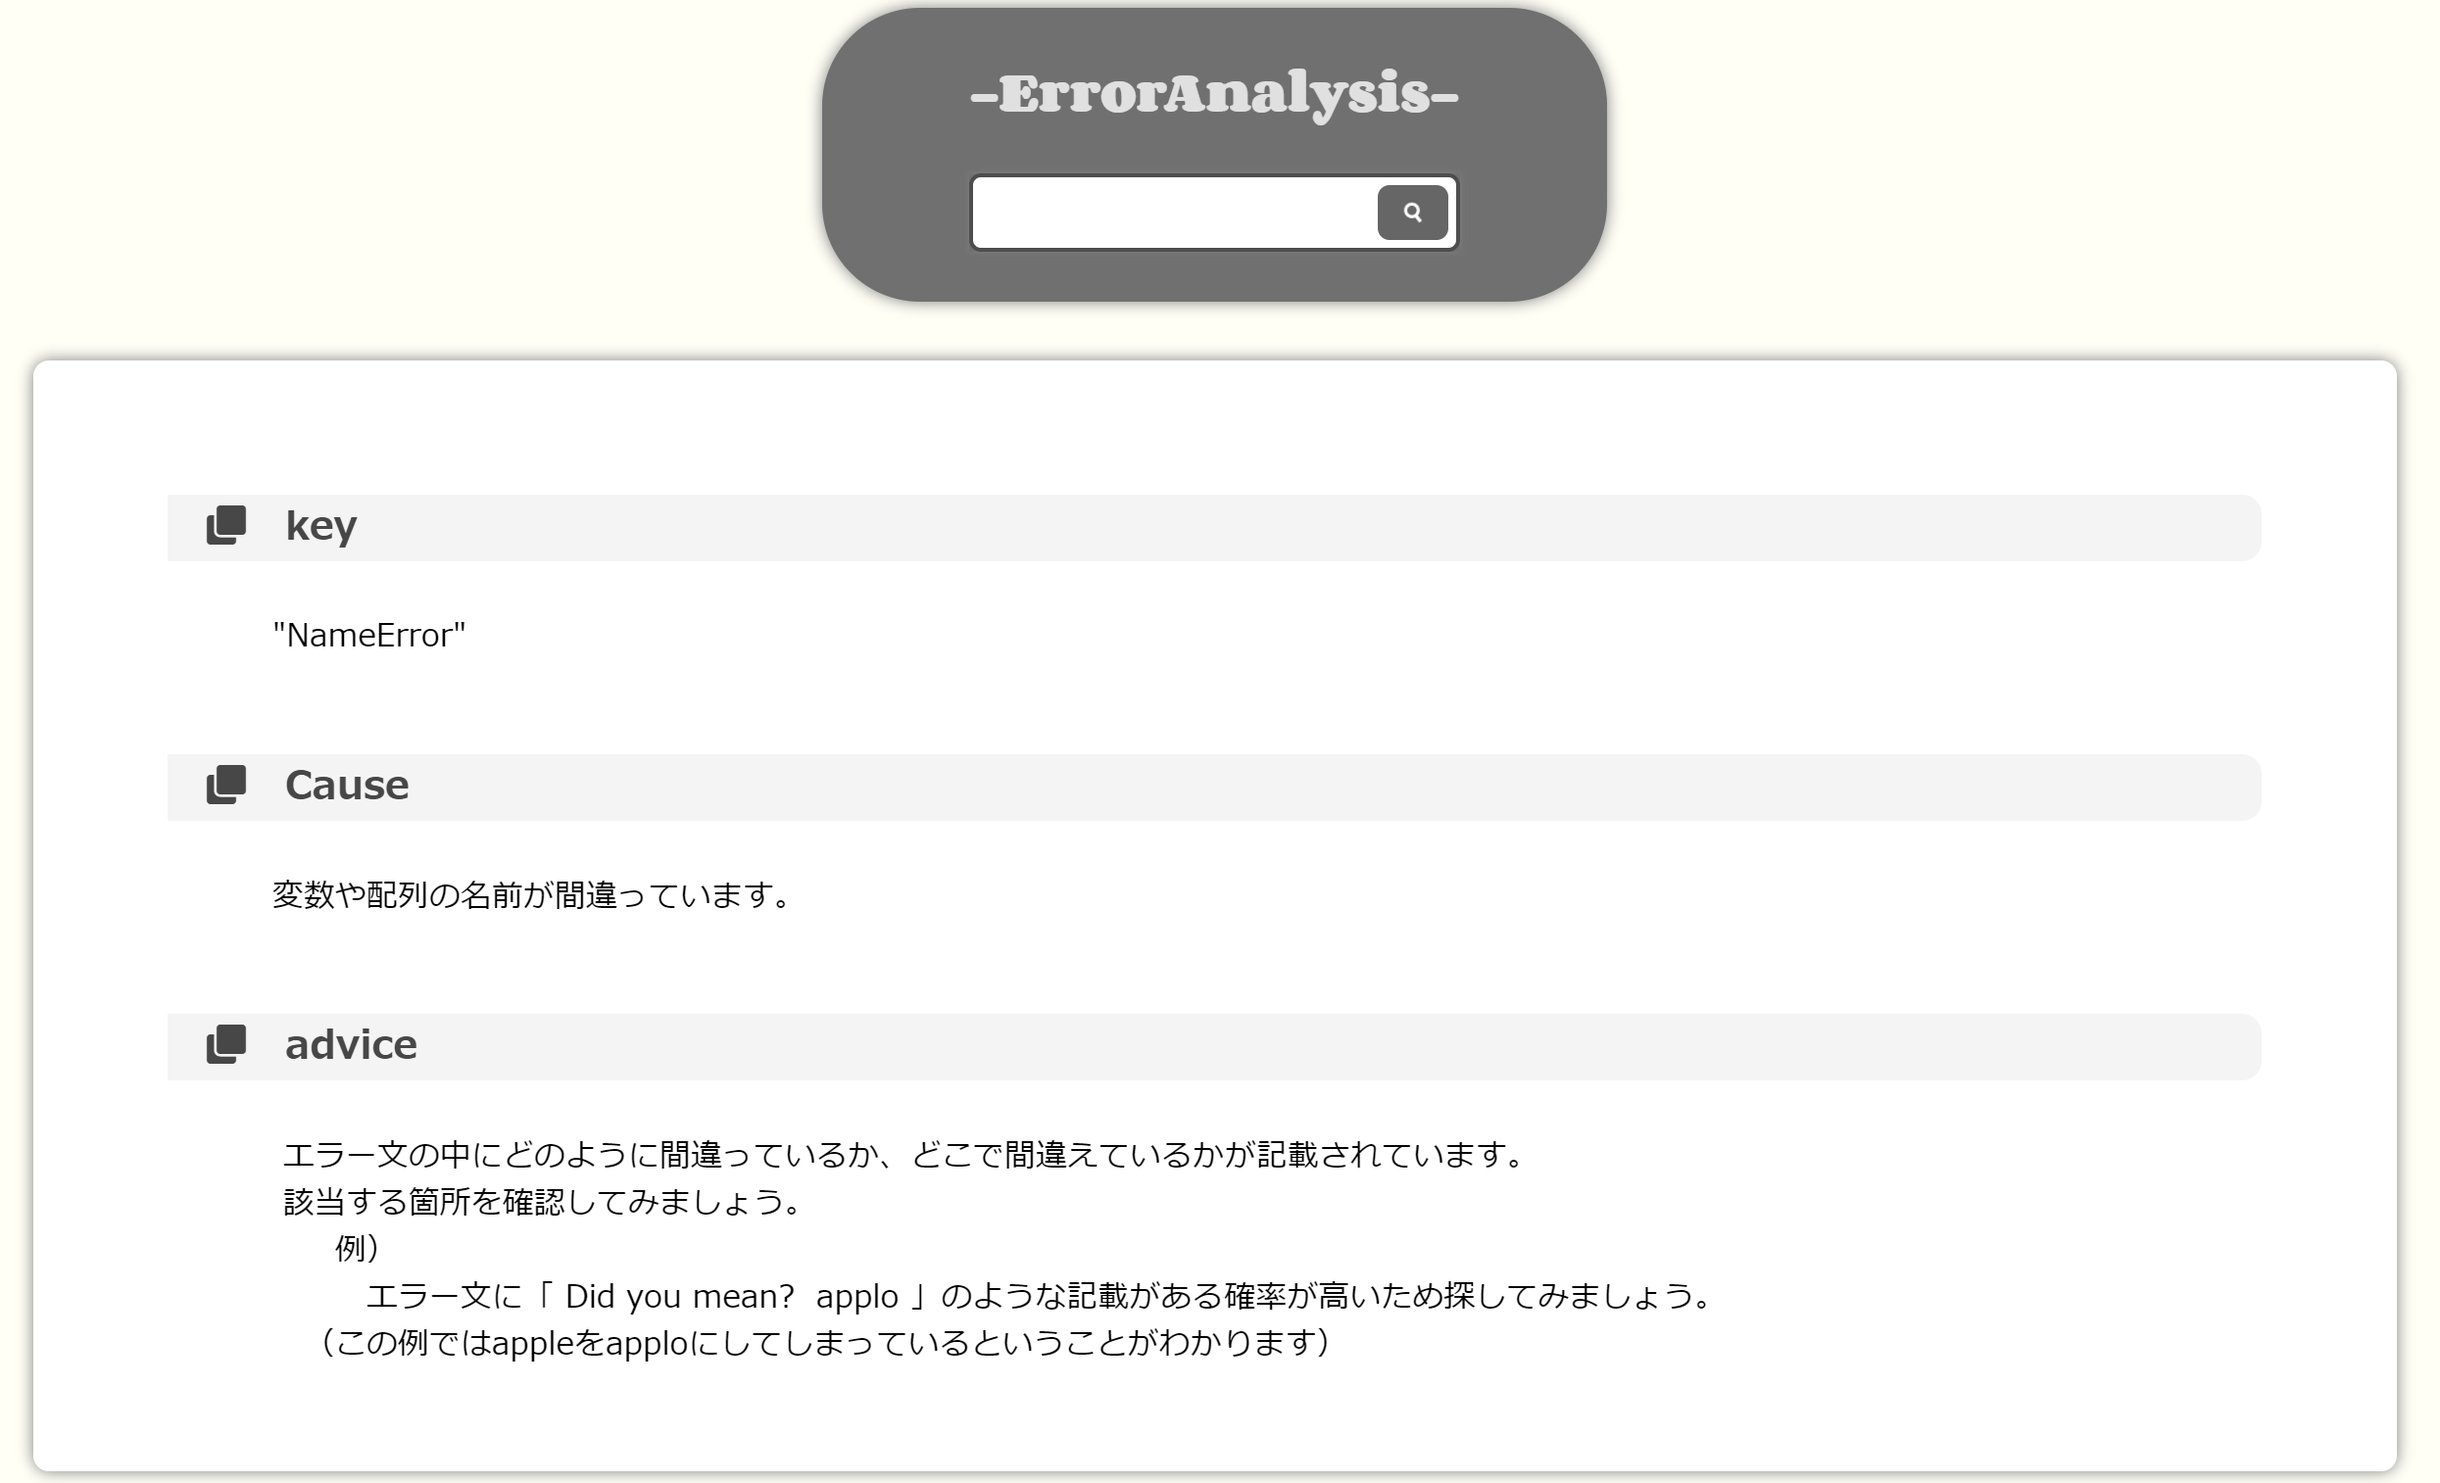
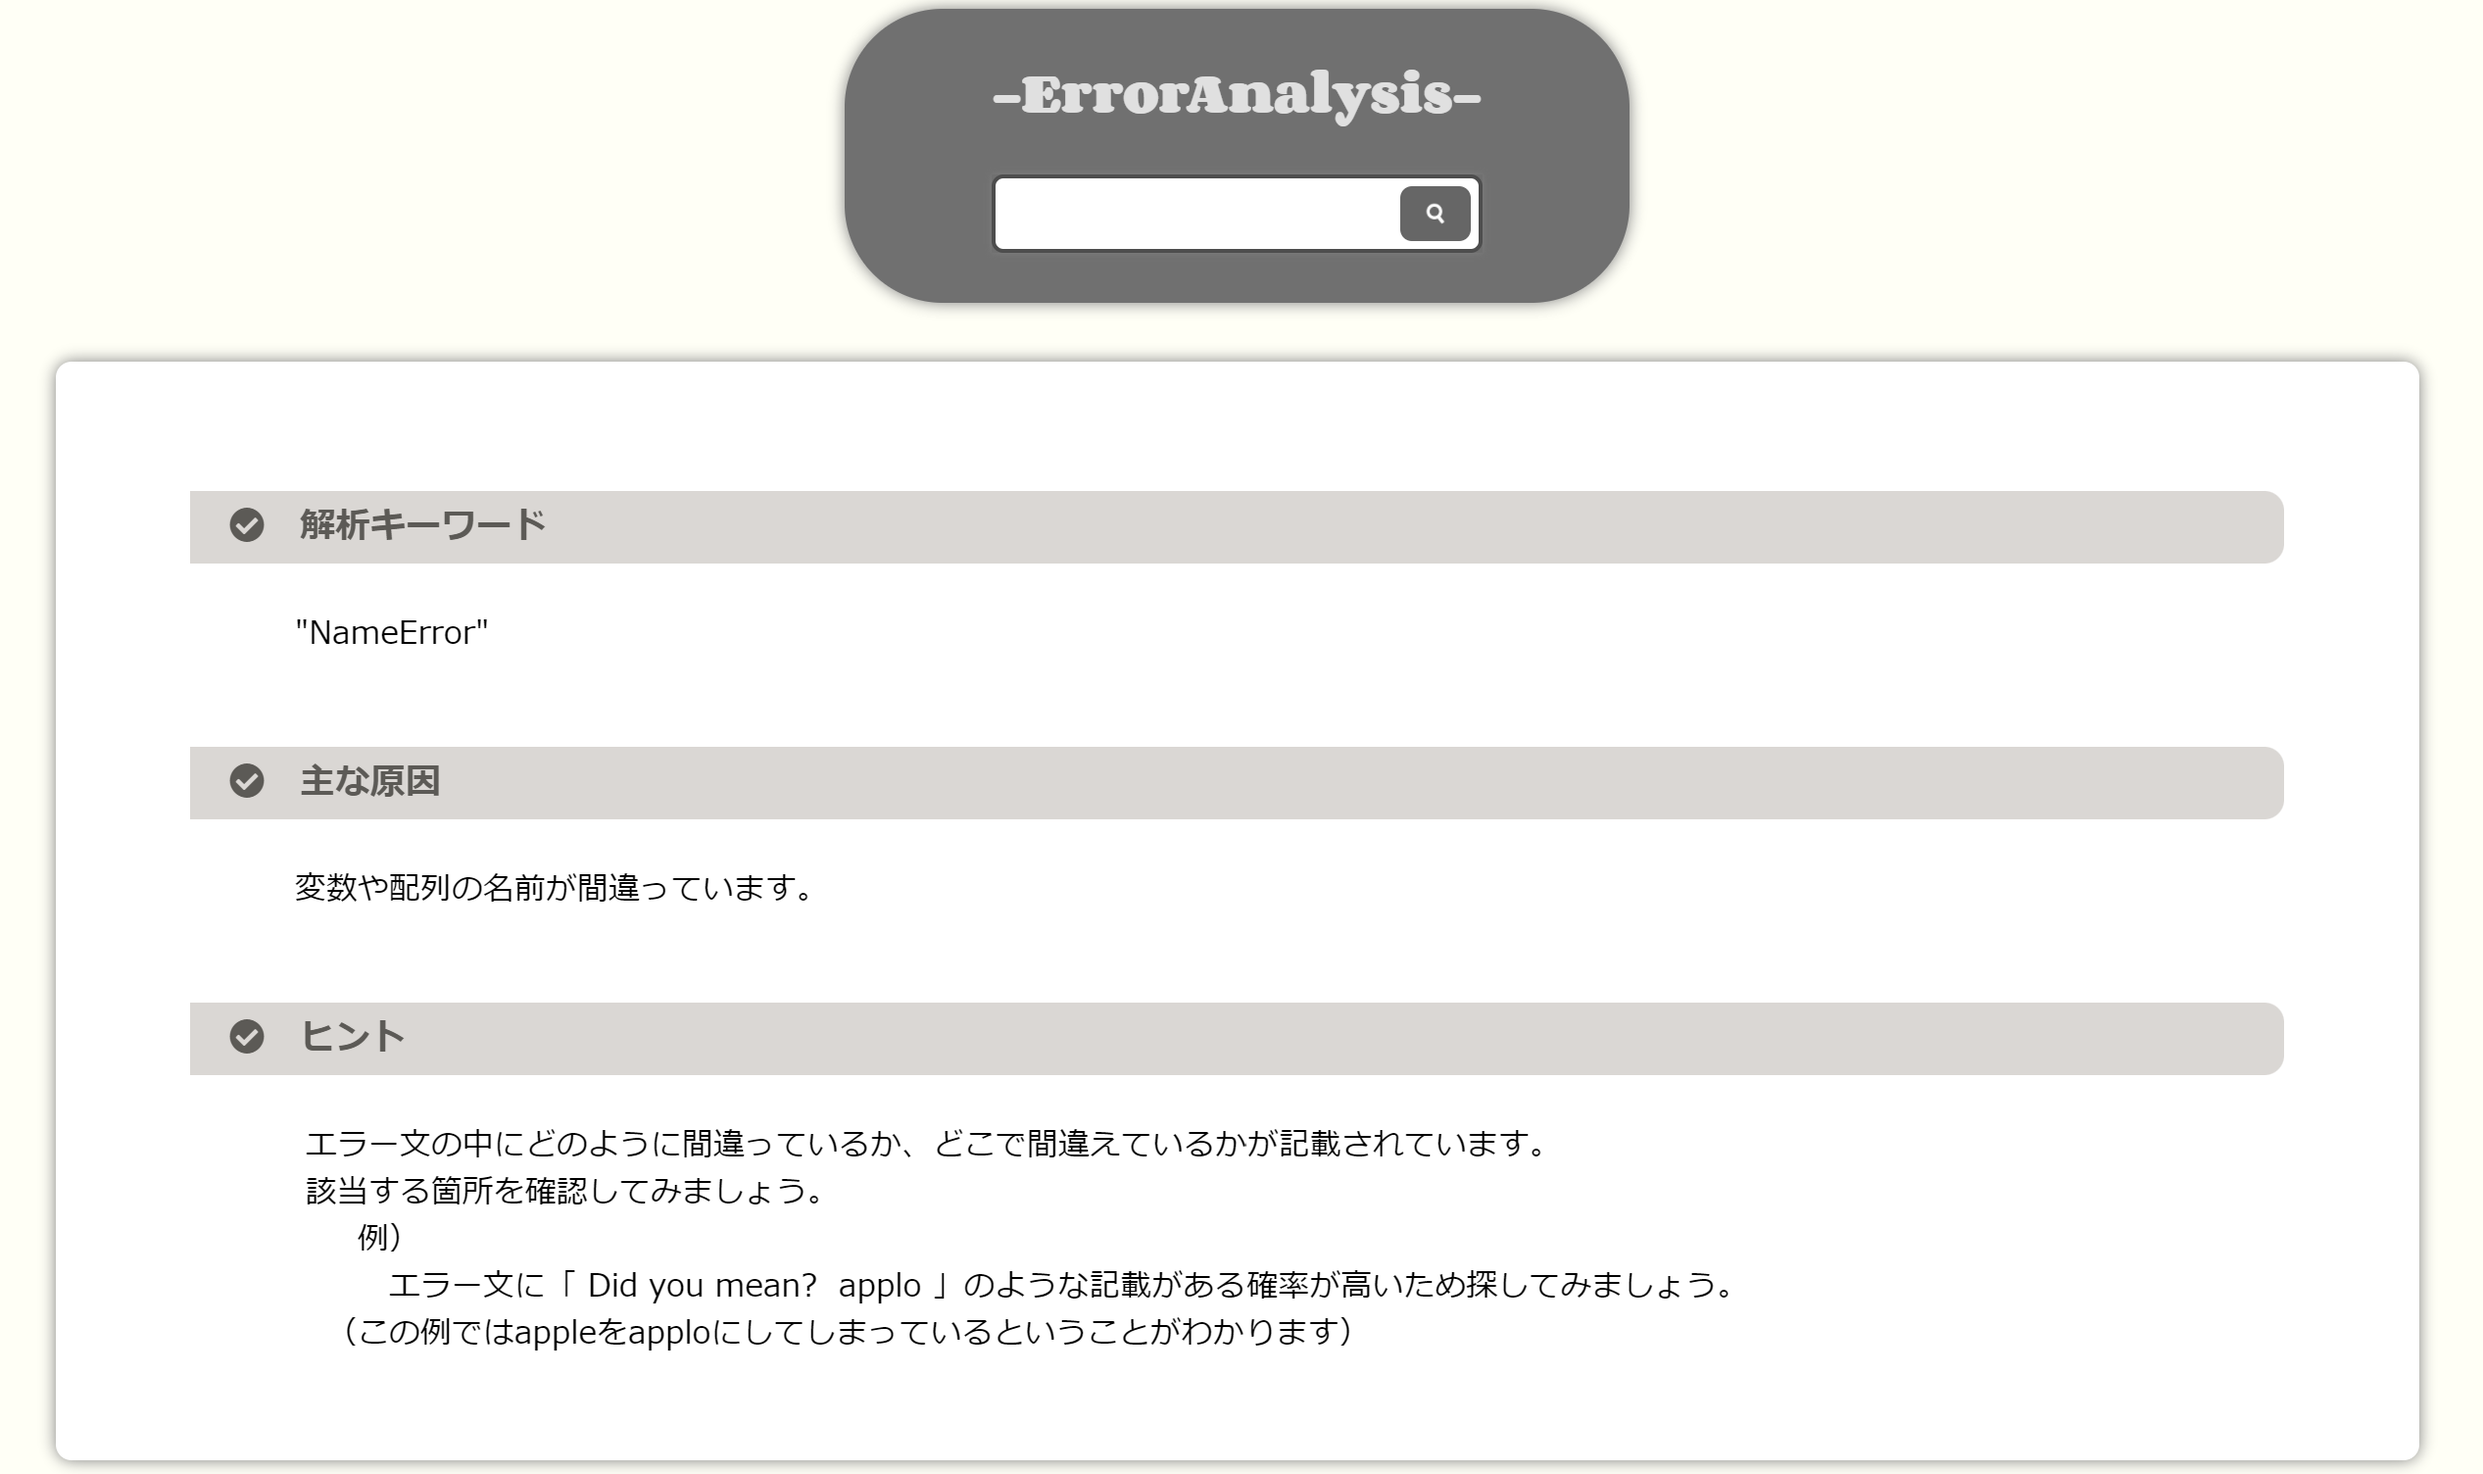
change messege(Eng→jap)

diff --git a/app/assets/stylesheets/error_analysis.scss b/app/assets/stylesheets/error_analysis.scss
@@ -117,11 +117,38 @@ h1{
     display        : none;               /* ×を消す              */
 }
 
+.alertbox{
+    width: 80%;
+    max-width: 580px;
+    margin: 0 auto;
+    background-color: #ffebee;
+    border: solid 1px red;
+    padding: 20px 5px 5px 30px;
+    margin-bottom: 50px;
+  }
+  
+  .alert-title{
+    color: #ef5350;
+    font-size: 18px;
+    font-weight: bold;
+  }
+  
+  .alert{
+    font-size: 17px;
+  }
+  
+  .alertsbox p{
+    margin: 0;
+    padding: 0;
+  }
+
 .example{
     position: relative;
     text-align: center;
     font-size: large;
-    text-decoration:underline;
+    font-weight: bold;
+    color: rgb(68, 65, 65);
+    //text-decoration:underline;
 }
 
 .ex_copy{
@@ -174,9 +201,9 @@ h1{
 
 h4 {
     position: relative;
-    background: #f4f4f4;
-    padding: 2px 5px 2px 20px;
-    font-size: 20px;
-    color: #474747;
+    background: #dad7d4;
+    padding: 5px 5px 5px 20px;
+    font-size: 18px;
+    color: #5c5a56;
     border-radius: 0 10px 10px 0;
 }
